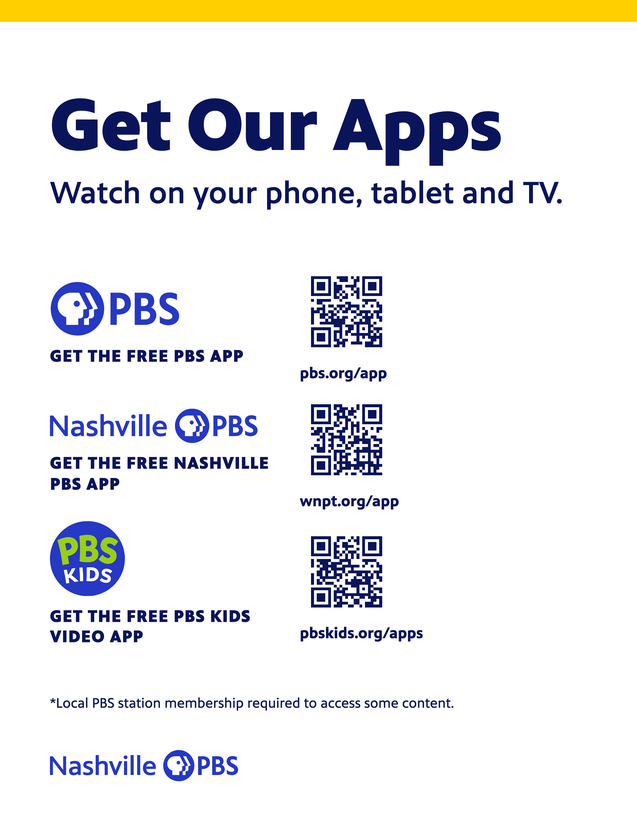
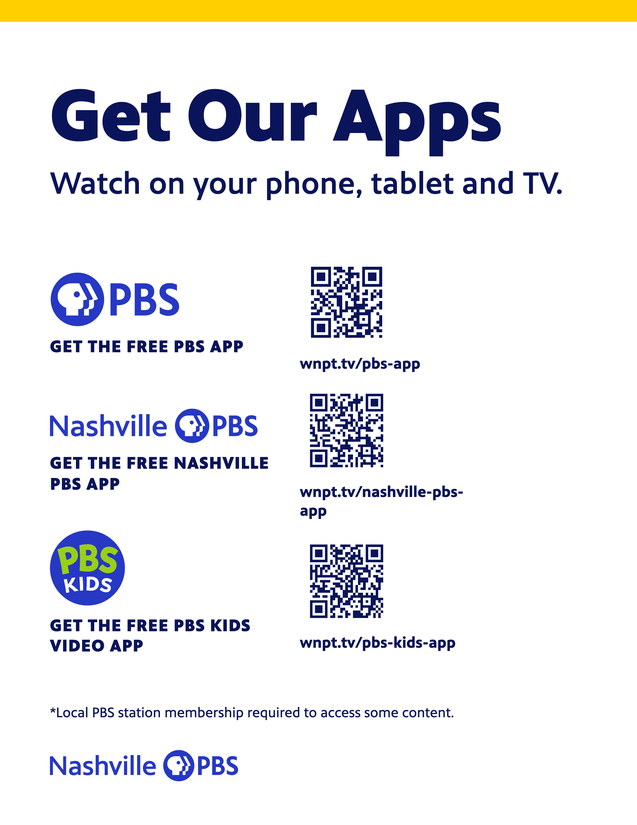
Signs: lock the Donate and app QR codes to tracked links; hide the Nashville PBS app until launch
Shane, 2026-11-07: "lock down that QR code for [the donate and app
signs] so I can track in Google Analytics and the make QR code just
makes new ones", and "[the Nashville PBS app] hasn't launched yet. Keep
everything ready for it to be turned on, just don't expose it as an
option yet."

signs/signs.js: CONFIG.tracked holds the fixed wnpt.tv links for the
donate sign and each app; the Donate sign has no address or short-link
fields any more (the printed address is config, wnpt.org/donate; the QR
encodes the tracked link, or the address until Shane sets one); the Our
Apps sign offers only checkboxes, the calls to action are config, each
app's QR is its tracked link, and an app without one marks the sign
undownloadable with a clear warning. CONFIG.apps.station.enabled =
false keeps the Nashville PBS app out of the page and the sign; the
harness flips it on once to prove the path still renders. Only the
custom sign keeps "Make short link". src/graphics-worker.js: a Short.io
public key (pk_) uses /links/public, a secret key /links.

Evidence: scripts/verify-graphics.py --only signs, 19 cases ALL OK; the
app cases run with stand-in tracked links (three apps with the station
app enabled; two apps on Tabloid landscape); donate with and without a
tracked link. Docs: BUILD-graphics.md B2 and B5, DECISIONS 13, PROGRESS,
shane.md 8 to 10.

diff --git a/signs/signs.js b/signs/signs.js
@@ -43,16 +43,25 @@
     qr: { size: 192, dark: '#0A145A', level: 'M', caption: 22 },
     // The donate sign (Shane, 2026-11-07): "Donate at least $5 per month or $60 per year and enjoy Nashville PBS
     // Passport", with the amounts as fields because the Passport price may change; wnpt.org/donate, not /support.
-    donate: { sentence: 'Donate at least ${monthly} per month or ${yearly} per year and enjoy Nashville PBS Passport', passportFile: 'Passport_Horizontal_Color.svg', passportH: 54 },
+    donate: { sentence: 'Donate at least ${monthly} per month or ${yearly} per year and enjoy Nashville PBS Passport', url: 'wnpt.org/donate', passportFile: 'Passport_Horizontal_Color.svg', passportH: 54 },
+    // Locked QR targets (Shane, 2026-11-07): the donate and app signs always encode these tracked wnpt.tv
+    // links, so every scan shows up in Google Analytics and nobody prints an untracked variant. Shane
+    // supplies them (shane.md); until a link is set, the donate QR falls back to the printed address and an
+    // app block has no QR and the download is blocked. The custom sign is the only one that makes new links.
+    tracked: {
+      donate: '',
+      apps: { pbs: '', station: '', kids: '' }
+    },
     // The app sign: one block per app the staffer turns on. Rules from the PBS App Marketing Guide (July 2024)
     // via the brand book: the PBS logo is the app's graphic (never the store icon), paired with an all-caps call
-    // to action; any "free" claim carries the fine print once. The Nashville PBS app is listed because Shane
-    // says the station has one (2026-11-07); the October brand book still says it is not launched, so he
-    // confirms the wording. Logo heights put the three marks at a similar visual weight.
+    // to action; any "free" claim carries the fine print once. The Nashville PBS app has not launched (Shane,
+    // 2026-11-07: "keep everything ready for it to be turned on, just don't expose it as an option yet"):
+    // `enabled: false` hides it from the page and the sign; flip it to true, set its tracked link, done.
+    // Logo heights put the three marks at a similar visual weight.
     apps: {
-      pbs:     { label: 'PBS app',           file: 'PBS_Logo_Color_RGB.svg',                 logoH: 70, cta: 'GET THE FREE PBS APP' },
-      station: { label: 'Nashville PBS app', file: 'NashvillePBS_Logo_Horizontal_Color.svg', logoH: 44, cta: 'GET THE FREE NASHVILLE PBS APP' },
-      kids:    { label: 'PBS KIDS app',      file: 'PBS_KIDS_Color_RGB_Digital.svg',          logoH: 96, cta: 'GET THE FREE PBS KIDS VIDEO APP' }
+      pbs:     { label: 'PBS app',           enabled: true,  file: 'PBS_Logo_Color_RGB.svg',                 logoH: 70, cta: 'GET THE FREE PBS APP' },
+      station: { label: 'Nashville PBS app', enabled: false, file: 'NashvillePBS_Logo_Horizontal_Color.svg', logoH: 44, cta: 'GET THE FREE NASHVILLE PBS APP' },
+      kids:    { label: 'PBS KIDS app',      enabled: true,  file: 'PBS_KIDS_Color_RGB_Digital.svg',          logoH: 96, cta: 'GET THE FREE PBS KIDS VIDEO APP' }
     },
     finePrint: '*Local PBS station membership required to access some content.',
     // The app sign's blocks: logo over the call to action at left, the QR code at right. Portrait stacks one
@@ -80,12 +89,13 @@
     { key: 'headline', label: 'Headline', type: 'textarea', rows: 2, placeholder: 'Donate', hint: 'Press Enter to force a line break.' },
     { key: 'monthly', label: 'Monthly amount', type: 'text', placeholder: '5', hint: 'Dollars per month for Passport; the sentence reads "at least $5 per month".' },
     { key: 'yearly', label: 'Yearly amount', type: 'text', placeholder: '60', hint: 'Dollars per year.' },
-    { key: 'body', label: 'Small text', type: 'textarea', rows: 2, placeholder: '', hint: 'A sentence or two under the Passport line. Optional.' }
-  ].concat(QR_FIELDS);
+    { key: 'body', label: 'Small text', type: 'textarea', rows: 2, placeholder: '', hint: 'A sentence or two under the Passport line. Optional.' },
+    { key: 'qrNote', label: 'QR code', type: 'note', hint: 'Fixed: the code is the station\'s tracked donate link, so scans count in Google Analytics. The printed address is wnpt.org/donate.' }
+  ];
   const APP_FIELDS = [
     { key: 'headline', label: 'Headline', type: 'textarea', rows: 2, placeholder: 'Get Our Apps', hint: 'Shorter than the other signs so three apps fit. Press Enter to force a line break.' },
     { key: 'subline', label: 'Second line', type: 'text', placeholder: 'Watch on your phone, tablet and TV.', hint: 'Optional.' },
-    { key: 'apps', label: 'Apps', type: 'apps', hint: 'Turn on the apps the sign is for. Each gets its logo, its call to action and a QR code to its link. A "free" claim adds the required fine print once.' }
+    { key: 'apps', label: 'Apps', type: 'apps', hint: 'Turn on the apps the sign is for. Each gets its logo, its call to action and the station\'s tracked QR code (fixed, so scans count in Google Analytics). A "free" claim adds the required fine print once.' }
   ];
   const PHOTO_SUB = 'This event is being photographed and/or video recorded.';
   const PHOTO_BODY = 'Please be advised that by entering this space, you are agreeing to being filmed and/or photographed, and the resulting assets may be used for marketing or promotional purposes.\n\nIf you do not wish to be photographed or recorded, please notify one of our staff members.\n\nThank you!';
@@ -98,8 +108,8 @@
     quiet:        { label: 'Quiet Please',         blurb: 'Quiet please: recording or a program in progress.',   defaults: { headline: 'Quiet Please', subline: 'Recording in progress', body: '', arrow: 'none', partnerLabel: '', partners: [] } },
     photo:        { label: 'Photography Notice',   blurb: 'The station\'s approved notice that the event is photographed or recorded.',  defaults: { headline: 'Attention', subline: PHOTO_SUB, body: PHOTO_BODY, arrow: 'none', partnerLabel: '', partners: [] } },
     custom:       { label: 'Custom',               blurb: 'Anything else: your own headline and lines, with a QR code if you give it a link.', defaults: { headline: '', subline: '', body: '', arrow: 'none', partnerLabel: '', partners: [], url: '', shortPath: '', shortURL: '' }, fields: FIELDS.concat(QR_FIELDS) },
-    donate:       { label: 'Donate',               blurb: 'wnpt.org/donate with the Passport amounts and a QR code.', defaults: { headline: 'Donate', monthly: '5', yearly: '60', body: '', url: 'wnpt.org/donate', shortPath: '', shortURL: '', partnerLabel: '', partners: [] }, fields: DONATE_FIELDS },
-    apps:         { label: 'Our Apps',             blurb: 'Download the PBS app, the Nashville PBS app or the PBS KIDS app, each with a QR code.', defaults: { headline: 'Get Our Apps', subline: 'Watch on your phone, tablet and TV.', apps: { pbs: { on: true, url: '', cta: '', shortPath: '', shortURL: '' }, station: { on: true, url: '', cta: '', shortPath: '', shortURL: '' }, kids: { on: true, url: '', cta: '', shortPath: '', shortURL: '' } }, partnerLabel: '', partners: [] }, fields: APP_FIELDS }
+    donate:       { label: 'Donate',               blurb: 'wnpt.org/donate with the Passport amounts and the tracked QR code.', defaults: { headline: 'Donate', monthly: '5', yearly: '60', body: '', partnerLabel: '', partners: [] }, fields: DONATE_FIELDS },
+    apps:         { label: 'Our Apps',             blurb: 'Download the PBS app, the Nashville PBS app or the PBS KIDS app, each with its tracked QR code.', defaults: { headline: 'Get Our Apps', subline: 'Watch on your phone, tablet and TV.', apps: { pbs: true, station: false, kids: true }, partnerLabel: '', partners: [] }, fields: APP_FIELDS }
   };
   function fieldsFor(sign) { return (SIGNS[sign] && SIGNS[sign].fields) || FIELDS; }
 
@@ -171,14 +181,13 @@
       const b = SC.el('div', 'font-size:' + r(CONFIG.body * k) + 'px;font-weight:400;line-height:1.45;margin-top:' + r(26 * k) + 'px;max-width:' + r(CONFIG.bodyMax * k) + 'px;white-space:pre-line;text-wrap:pretty;color:' + fg, f.body.trim());
       b.className = 'ec-readable'; text.appendChild(b);
     }
-    const shown = (f.url || '').trim();
-    if (shown) {
-      const u = SC.el('div', 'font-size:' + r(64 * k) + 'px;font-weight:800;letter-spacing:-.01em;line-height:1.05;margin-top:' + r(34 * k) + 'px;color:' + (navy ? '#fff' : C.pbsBlue), shown);
-      u.className = 'ec-readable'; u.dataset.fitwrap = '1'; u.dataset.base = r(64 * k); u.dataset.floor = r(36 * k);
-      text.appendChild(u);
-    }
+    const shown = CONFIG.donate.url;
+    const u = SC.el('div', 'font-size:' + r(64 * k) + 'px;font-weight:800;letter-spacing:-.01em;line-height:1.05;margin-top:' + r(34 * k) + 'px;color:' + (navy ? '#fff' : C.pbsBlue), shown);
+    u.className = 'ec-readable'; u.dataset.fitwrap = '1'; u.dataset.base = r(64 * k); u.dataset.floor = r(36 * k);
+    text.appendChild(u);
     content.appendChild(text);
-    const q = qrBlock((f.shortURL || '').trim() || SC.urlTarget(f.url), (f.shortURL || '').replace(/^https?:\/\//, '') || '', k, fg);
+    const tracked = (CONFIG.tracked.donate || '').trim();
+    const q = qrBlock(tracked || SC.urlTarget(shown), tracked ? tracked.replace(/^https?:\/\//, '') : '', k, fg);
     if (q) { if (!d.land) q.style.alignSelf = 'flex-start'; content.appendChild(q); }
   }
 
@@ -199,7 +208,7 @@
     }
     content.appendChild(text);
     const apps = f.apps || {};
-    const on = Object.keys(CONFIG.apps).filter(key => apps[key] && apps[key].on);
+    const on = Object.keys(CONFIG.apps).filter(key => CONFIG.apps[key].enabled && (apps[key] === true || (apps[key] && apps[key].on)));
     let free = false;
     if (on.length) {
       const qrSize = r((d.land ? A.qr.landscape : A.qr.portrait) * k);
@@ -214,14 +223,15 @@
         logo.style.cssText = 'display:block;max-height:' + r(a.logoH * k) + 'px;max-width:100%;width:auto;height:auto;object-fit:contain';
         logo.className = 'ec-readable';
         col.appendChild(logo);
-        const cta = ((v.cta || '').trim() || a.cta).toUpperCase();
+        const cta = a.cta.toUpperCase();
         if (/\bFREE\b/.test(cta)) free = true;
         const c = SC.el('div', 'font-size:' + r(A.cta * k) + 'px;font-weight:800;letter-spacing:.04em;line-height:1.2;color:' + fg, cta);
         c.className = 'ec-readable';
         col.appendChild(c);
         block.appendChild(col);
-        const target = (v.shortURL || '').trim() || SC.urlTarget(v.url);
+        const target = (CONFIG.tracked.apps[key] || '').trim();
         const src = target ? SC.qrSvgDataUrl(target, CONFIG.qr.dark, CONFIG.qr.level) : '';
+        if (!src) block.dataset.missing = 'No tracked link is set for the ' + a.label + ' yet (shane.md): no QR code, so the sign cannot be downloaded.';
         if (src) {
           const qb = SC.el('div', 'display:flex;flex-direction:column;align-items:flex-start;gap:' + r(6 * k) + 'px;flex:none');
           const img = document.createElement('img');
@@ -229,7 +239,7 @@
           img.style.cssText = 'display:block;width:' + qrSize + 'px;height:' + qrSize + 'px';
           img.className = 'ec-readable';
           qb.appendChild(img);
-          const shown = (v.shortURL || '').replace(/^https?:\/\//, '') || (v.url || '').trim();
+          const shown = target.replace(/^https?:\/\//, '');
           if (shown) { const cap = SC.el('div', 'font-size:' + r(A.caption * k) + 'px;font-weight:700;line-height:1.2;max-width:' + r(A.captionW * k) + 'px;overflow-wrap:anywhere;color:' + fg, shown); cap.className = 'ec-readable'; qb.appendChild(cap); }
           block.appendChild(qb);
         }
@@ -343,6 +353,7 @@
       if (e.scrollWidth > e.clientWidth + 1) warnings.push('A word is too long for the sign even at the smallest size: "' + e.textContent + '". Shorten it.');
       sizes.push({ text: e.textContent, px: s, pt: Math.round(s * 72 / DPI) });
     });
+    stage.querySelectorAll('[data-missing]').forEach(e => warnings.push(e.dataset.missing));
     const copy = stage.querySelector('[data-box]');
     if (copy && copy.scrollHeight > copy.clientHeight + 1) warnings.push('The copy is taller than the sign. Shorten it, remove a line or remove a partner logo.');
     const out = SC.readableOutside(stage, d.W, { x: MARGIN, y: MARGIN, w: d.W - 2 * MARGIN, h: d.H - 2 * MARGIN });

diff --git a/signs/index.html b/signs/index.html
@@ -62,8 +62,8 @@ textarea.ec-input{resize:vertical;min-height:62px;line-height:1.45}
 </style>
 <script src="../vendor/html-to-image.js?v=20261107c"></script>
 <script src="../vendor/qrcode.js?v=20261107c"></script>
-<script src="../shared/studio-core.js?v=20261107c"></script>
-<script src="signs.js?v=20261107c"></script>
+<script src="../shared/studio-core.js?v=20261107d"></script>
+<script src="signs.js?v=20261107d"></script>
 </head>
 <body>
 <div style="min-height:100vh;display:flex;flex-direction:column">
@@ -109,6 +109,7 @@ textarea.ec-input{resize:vertical;min-height:62px;line-height:1.45}
           <li>Everything readable stays inside the dashed 0.5 in print margin; the headline shrinks only when a single word is too wide, and the tool tells you when to shorten the copy.</li>
           <li>Signs are white so the office color printer can run them quickly: Navy type, the color logo and one thin accent band. Navy is there for a print shop or a sign holder; it covers the page in ink and office printers leave a thin white edge on it.</li>
           <li>Partner logos: add the files under Partner logos and they line up above the station logo, each at its own shape; add more and the row wraps and the logos shrink. Keep the label plain: "Supported by".</li>
+          <li>QR codes: the Donate and Our Apps signs carry the station's fixed, tracked codes, so every scan counts in Google Analytics. The custom sign makes a new wnpt.tv short link for whatever address you give it.</li>
           <li>The PDF is one page at the exact paper size, 300 dpi, no bleed or crop marks: print at 100% scale, never "fit to page".</li>
           <li>Your last sign is remembered in this browser.</li>
         </ol>
@@ -181,23 +182,23 @@ textarea.ec-input{resize:vertical;min-height:62px;line-height:1.45}
         if (spec.hint) { const h = document.createElement('div'); h.className = 'ec-hint'; h.textContent = spec.hint; wrap.appendChild(h); }
         host.appendChild(wrap); return;
       }
+      if (spec.type === 'note') {
+        if (spec.hint) { const h = document.createElement('div'); h.className = 'ec-hint'; h.textContent = spec.hint; wrap.appendChild(h); }
+        host.appendChild(wrap); return;
+      }
       if (spec.type === 'apps') {
         const apps = f.apps || (f.apps = {});
         Object.entries(S.CONFIG.apps).forEach(([key, a]) => {
-          const v = apps[key] || (apps[key] = { on: false, url: '', cta: '', shortPath: '', shortURL: '' });
-          const card = document.createElement('div'); card.style.cssText = 'display:flex;flex-direction:column;gap:8px;padding:10px 12px;border:1px solid #e4e7f1;border-radius:10px;background:#f6f7fb';
-          const top = document.createElement('label'); top.style.cssText = 'display:flex;align-items:center;gap:8px;font-weight:800;font-size:13px;color:#0A145A;cursor:pointer';
-          const cb = document.createElement('input'); cb.type = 'checkbox'; cb.checked = !!v.on; cb.style.accentColor = '#2638C4';
-          cb.addEventListener('change', () => { v.on = cb.checked; buildFields(); schedule(); });
-          top.appendChild(cb); top.appendChild(document.createTextNode(a.label)); card.appendChild(top);
-          if (v.on) {
-            const link = document.createElement('input'); link.type = 'text'; link.className = 'ec-input'; link.placeholder = 'Link to the app, e.g. pbs.org/app'; link.value = v.url || '';
-            link.setAttribute('aria-label', a.label + ' link'); link.addEventListener('input', () => { v.url = link.value; v.shortURL = ''; schedule(); }); card.appendChild(link);
-            const cta = document.createElement('input'); cta.type = 'text'; cta.className = 'ec-input'; cta.placeholder = a.cta; cta.value = v.cta || '';
-            cta.setAttribute('aria-label', a.label + ' call to action'); cta.addEventListener('input', () => { v.cta = cta.value; schedule(); }); card.appendChild(cta);
-            card.appendChild(shortLinkRow(v, 'shortPath', 'shortURL', 'url', id + '-' + key));
-          }
-          wrap.appendChild(card);
+          if (!a.enabled) return; // not launched yet: kept ready, not offered
+          const on = apps[key] === true || (apps[key] && apps[key].on);
+          const row = document.createElement('label'); row.style.cssText = 'display:flex;align-items:center;gap:8px;font-weight:700;font-size:13px;color:#0A145A;cursor:pointer;padding:8px 10px;border:1px solid #e4e7f1;border-radius:8px;background:#f6f7fb';
+          const cb = document.createElement('input'); cb.type = 'checkbox'; cb.checked = !!on; cb.style.accentColor = '#2638C4';
+          cb.addEventListener('change', () => { apps[key] = cb.checked; schedule(); });
+          row.appendChild(cb); row.appendChild(document.createTextNode(a.label));
+          const tracked = (S.CONFIG.tracked.apps[key] || '').replace(/^https?:\/\//, '');
+          const t = document.createElement('span'); t.className = 'ec-hint'; t.style.marginLeft = 'auto'; t.textContent = tracked ? ('QR: ' + tracked) : 'no tracked link yet';
+          row.appendChild(t);
+          wrap.appendChild(row);
         });
         if (spec.hint) { const h = document.createElement('div'); h.className = 'ec-hint'; h.textContent = spec.hint; wrap.appendChild(h); }
         host.appendChild(wrap); return;

diff --git a/signs/selftest.html b/signs/selftest.html
@@ -41,9 +41,9 @@ body{margin:0;font-family:"PBS Sans",Arial,sans-serif}
     'partners-letter-portrait':        { sign: 'welcome', fields: { subline: 'Community Screening and Conversation', partnerLabel: 'Supported by', partners: LOGOS } },
     'partners-seven-letter-landscape': { sign: 'welcome', orientation: 'landscape', fields: { subline: 'Community Screening', partnerLabel: 'Supported by', partners: LOGOS.concat(LOGOS, [LOGOS[0]]) } },
     'donate-letter-portrait':          { sign: 'donate' },
-    'donate-letter-landscape':         { sign: 'donate', orientation: 'landscape', fields: { shortURL: 'https://wnpt.tv/donate' } },
-    'apps-letter-portrait':            { sign: 'apps', fields: { apps: { pbs: { on: true, url: 'pbs.org/app', cta: '', shortPath: '', shortURL: '' }, station: { on: true, url: 'wnpt.org/app', cta: '', shortPath: '', shortURL: '' }, kids: { on: true, url: 'pbskids.org/apps', cta: '', shortPath: '', shortURL: '' } } } },
-    'apps-two-tabloid-landscape':      { sign: 'apps', size: 'tabloid', orientation: 'landscape', fields: { apps: { pbs: { on: true, url: 'pbs.org/app', cta: '', shortPath: '', shortURL: 'https://wnpt.tv/pbsapp' }, station: { on: false, url: '', cta: '', shortPath: '', shortURL: '' }, kids: { on: true, url: 'pbskids.org/apps', cta: '', shortPath: '', shortURL: '' } } } },
+    'donate-letter-landscape':         { sign: 'donate', orientation: 'landscape', tracked: { donate: 'https://wnpt.tv/donate-sign' } },
+    'apps-letter-portrait':            { sign: 'apps', tracked: { apps: { pbs: 'https://wnpt.tv/pbs-app', station: 'https://wnpt.tv/nashville-pbs-app', kids: 'https://wnpt.tv/pbs-kids-app' } }, fields: { apps: { pbs: true, station: true, kids: true } }, enableStation: true },
+    'apps-two-tabloid-landscape':      { sign: 'apps', size: 'tabloid', orientation: 'landscape', tracked: { apps: { pbs: 'https://wnpt.tv/pbs-app', station: '', kids: 'https://wnpt.tv/pbs-kids-app' } }, fields: { apps: { pbs: true, station: false, kids: true } } },
     'custom-qr-letter-portrait':       { sign: 'custom', fields: { headline: 'Tonight\'s Program', subline: 'Scan for the program notes', url: 'wnpt.org/events', shortURL: 'https://wnpt.tv/notes' } }
   };
   if (q.get('list')) { document.getElementById('out').textContent = JSON.stringify({ cases: Object.keys(CASES) }); document.title = 'DONE'; return; }
@@ -55,6 +55,10 @@ body{margin:0;font-family:"PBS Sans",Arial,sans-serif}
     for (const [name, c] of Object.entries(CASES)) {
       if (only && only !== name) continue;
       const state = EventSigns.defaultState(c.sign);
+      // Tracked links are config in production (Shane sets them); the harness sets stand-ins per case.
+      EventSigns.CONFIG.apps.station.enabled = !!c.enableStation; // the launch switch, exercised once here
+      EventSigns.CONFIG.tracked.donate = (c.tracked && c.tracked.donate) || '';
+      Object.keys(EventSigns.CONFIG.tracked.apps).forEach(k => { EventSigns.CONFIG.tracked.apps[k] = (c.tracked && c.tracked.apps && c.tracked.apps[k]) || ''; });
       if (c.colorway) state.colorway = c.colorway;
       if (c.accent) state.accent = c.accent;
       if (c.size) state.size = c.size;

diff --git a/src/graphics-worker.js b/src/graphics-worker.js
@@ -69,7 +69,10 @@ export default {
       if (path && !PATH_RE.test(path)) return json({ error: 'A short link name is letters, numbers and hyphens, 63 at most.' }, 400);
       const payload = { domain: env.SHORTIO_DOMAIN, originalURL: parsed.toString(), title: String(body.title || 'Graphics studio sign').slice(0, 120) };
       if (path) payload.path = path;
-      const res = await fetch('https://api.short.io/links', {
+      // A Short.io public key (pk_...) may only create links and uses the public endpoint; a secret key (sk_...)
+      // uses the full one. Either works here, because creating links is all this Worker does.
+      const endpoint = env.SHORTIO_API_KEY.startsWith('pk_') ? 'https://api.short.io/links/public' : 'https://api.short.io/links';
+      const res = await fetch(endpoint, {
         method: 'POST',
         headers: { Authorization: env.SHORTIO_API_KEY, 'Content-Type': 'application/json', Accept: 'application/json' },
         body: JSON.stringify(payload)

diff --git a/BUILD-graphics.md b/BUILD-graphics.md
@@ -270,9 +270,9 @@ sign is one entry in `SIGNS`.
 | Restrooms | Restrooms | right |
 | Quiet Please | Quiet Please / Recording in progress | no |
 | Photography Notice | Attention / This event is being photographed and/or video recorded. / the station's approved paragraphs and "Thank you!" (Shane, 2026-11-07) | no |
-| Custom | empty; a QR code when a web address is given | optional |
-| Donate | Donate / "Donate at least $5 per month or $60 per year and enjoy Nashville PBS Passport" (the amounts are fields, since the Passport price may change) / the Passport lockup / wnpt.org/donate large / a QR code | no |
-| Our Apps | Get Our Apps / Watch on your phone, tablet and TV. / one block per app turned on: the PBS app (national PBS logo, GET THE FREE PBS APP), the Nashville PBS app (station lockup, GET THE FREE NASHVILLE PBS APP), the PBS KIDS app (PBS KIDS logo, GET THE FREE PBS KIDS VIDEO APP), each with its link and QR code; the fine print once when a call to action says "free" | no |
+| Custom | empty; a QR code when a web address is given, with a button that makes a new wnpt.tv short link for it | optional |
+| Donate | Donate / "Donate at least $5 per month or $60 per year and enjoy Nashville PBS Passport" (the amounts are fields, since the Passport price may change) / the Passport lockup / wnpt.org/donate large / the station's **fixed, tracked** QR code (`CONFIG.tracked.donate`; the printed address until it is set) | no |
+| Our Apps | Get Our Apps / Watch on your phone, tablet and TV. / one block per app turned on: the PBS app (national PBS logo, GET THE FREE PBS APP) and the PBS KIDS app (PBS KIDS logo, GET THE FREE PBS KIDS VIDEO APP), each with its **fixed, tracked** QR code (`CONFIG.tracked.apps`); the fine print once when a call to action says "free". The Nashville PBS app is wired in behind `enabled: false` until it launches (Shane, 2026-11-07) | no |
 
 Paper: Letter 8.5×11 and Tabloid 11×17, portrait or landscape. Field: **White by default** (Navy
 type, color logo), because these signs are printed in-house on the office color printer and a Navy
@@ -319,7 +319,11 @@ while a warning stands (a word too long at the floor, copy taller than the sign,
 print margin, a missing image).
 
 **Short links and QR codes.** The QR code is made in the page (`vendor/qrcode.js`, shared through
-`StudioCore.qrSvgDataUrl`). A "Make short link" button next to the address asks the studio's own API,
+`StudioCore.qrSvgDataUrl`). On the Donate and Our Apps signs the code is locked to a tracked wnpt.tv link
+that Shane sets once in `CONFIG.tracked` (his call, 2026-11-07: "lock down that QR code for those so I
+can track in Google Analytics"), so nobody prints an untracked variant; an app with no tracked link yet
+gets no code and the download is blocked. Only the custom sign makes new links: a "Make short link"
+button next to the address asks the studio's own API,
 `POST /api/shortlink` on graphics.wnpt.app (`src/graphics-worker.js`), which verifies the Cloudflare
 Access login again and creates a wnpt.tv link in Short.io with the station's key, held as the Worker
 secret `SHORTIO_API_KEY` that only Shane sets; the browser never sees the key. The QR then encodes the
